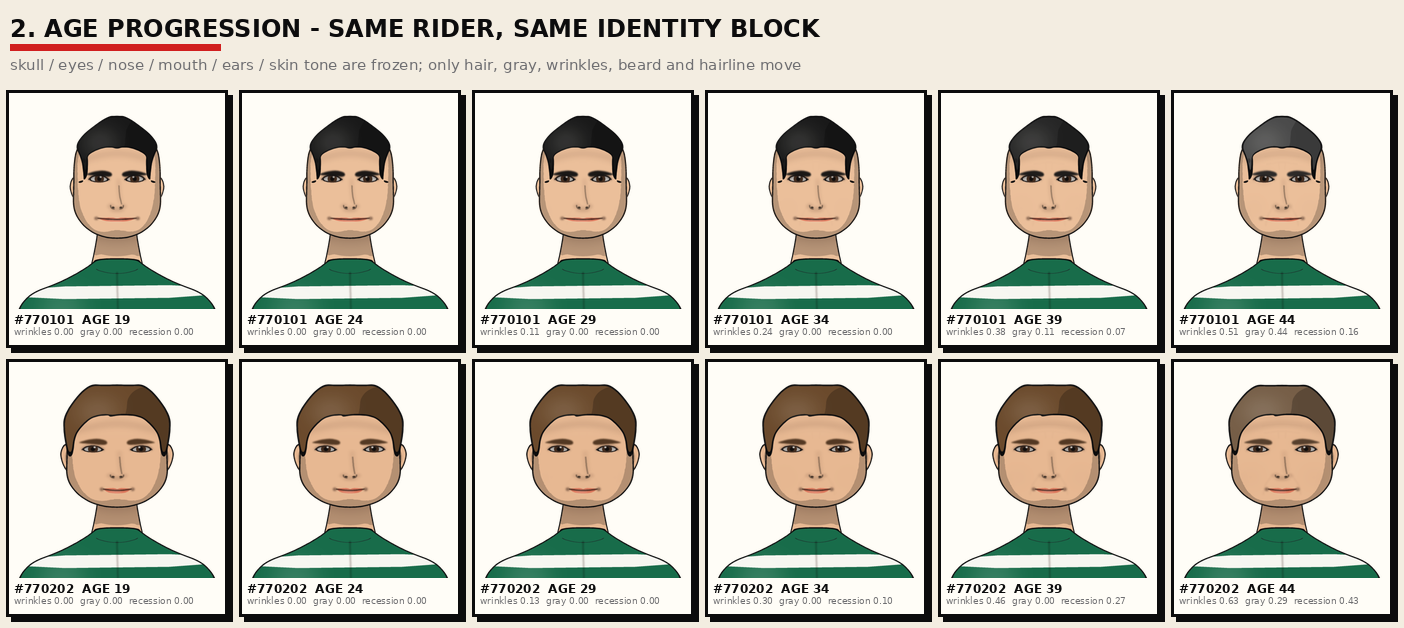
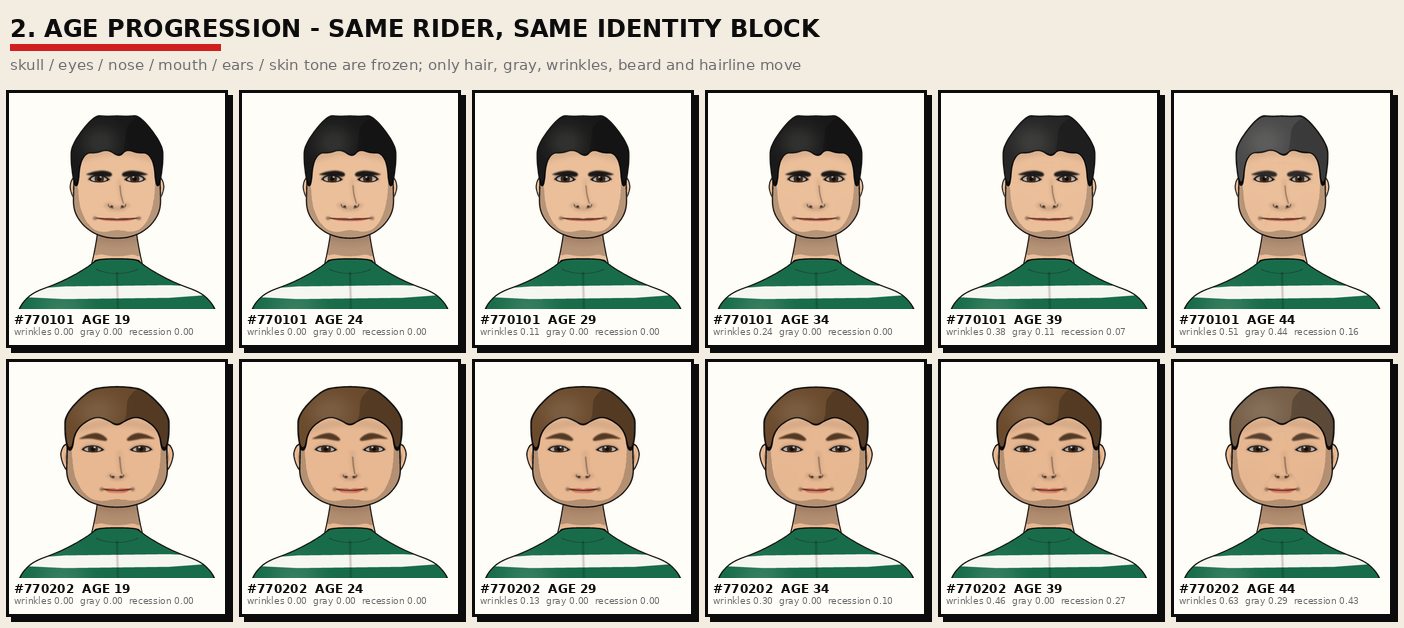
Refresh poster demo sheets after expanding face recipes
Contact sheet, trait explorer, aging and size sheets now show the
larger head/hair/nose/mouth/ear catalog. 20k-rider pool reports
zero look-alike pairs.

diff --git a/experiments/avatar_prototype/DESIGN_SKETCH.md b/experiments/avatar_prototype/DESIGN_SKETCH.md
@@ -520,10 +520,8 @@ resolution, order independence, transparent background, cache-key movement).
 
 ## Open questions before this becomes a real system
 
-1. **Which style profile wins?** `demo/07_styles.png` is the old five-way sheet.
-   `demo/10_look_proposals.png` is the neighbour-of-poster review (thin / woodcut /
-   comic / stencil). `poster` stays default until the owner picks. Everything else
-   is already style-agnostic.
+1. **Which style profile wins?** Owner locked `poster`. `demo/01_contact_sheet.png` and
+   `demo/05_trait_variants.png` are the sheets for face-recipe variety.
 2. **Who authors the final pack?** Procedural/vector (pipeline A) or an artist replacing
    layers file by file. Both fit the same manifest.
 3. **Do we ship the pack or bake it on first run?** ~245 small PNGs is ~2-3 MB shipped, or
